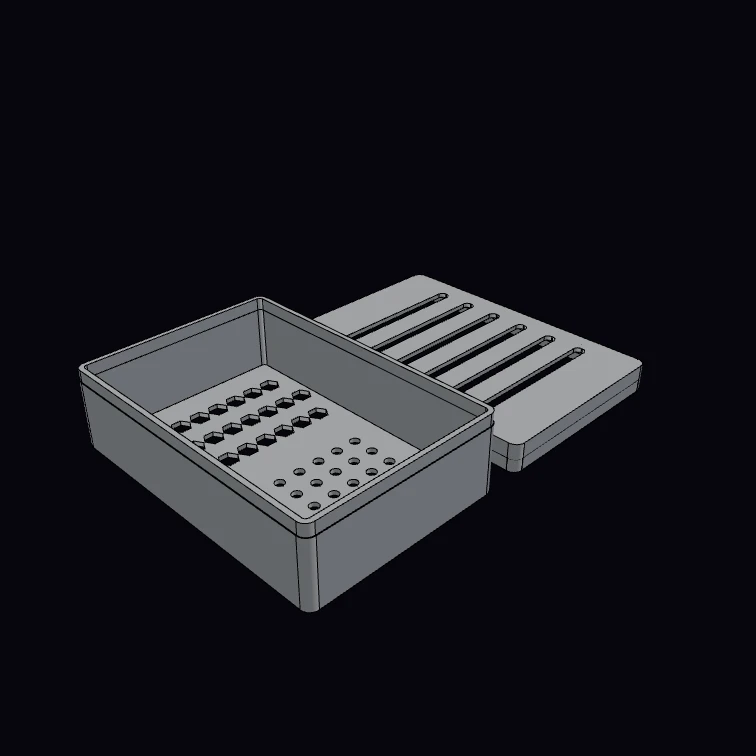
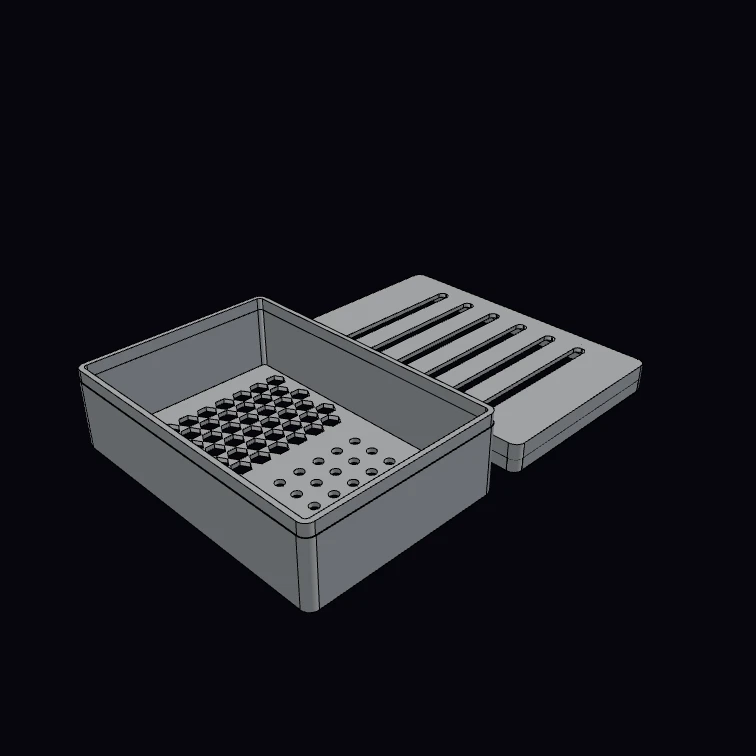
fix(playground): fix divided-bin scoop and louvre honeycomb pitch (Greptile)
divided-gridfinity-bin: the finger scoop cylinder was rotated about the world
origin (rotate with no 'at'), flinging it to z~=41 so the scoop was absent. Build
it directly along X (axis) at the pocket back-floor corner instead.

vented-louvre-case: the honeycomb column pitch double-counted the across-flats
factor (~2x too large), giving a sparse vent. Use 1.5*hexCircumR + hexGap for a
tight flat-top grid.

Both display-only; getSolids unchanged (bin 1 solid, case [1,1]); type guard
32/32, eval+mesh 252/252. Addresses the Greptile P1+P2 on #1457.

Changed region(s): [[0.213, 0.4868, 0.4563, 0.6389]]

diff --git a/apps/playground/src/lib/examples/mechanical.ts b/apps/playground/src/lib/examples/mechanical.ts
@@ -1812,7 +1812,6 @@ export default gridfinityBaseplate();`,
   edgeFinder,
   fillet,
   fuse,
-  rotate,
   unwrap,
   validSolid,
 } from 'brepjs/quick';
@@ -1966,11 +1965,13 @@ function dividedGridfinityBin({
   for (let gi = 0; gi < divx; gi++) {
     const [cx, cy] = pocketCenter(gi, divy - 1); // back row only
     const yBack = cy + cellPy / 2; // back wall plane of this pocket
-    const scoop = rotate(
-      cylinder(scoopR, cellPx, { at: [cx - cellPx / 2, yBack, FLOOR + scoopR] }),
-      90,
-      { axis: [0, 1, 0] },
-    );
+    // Cylinder runs directly along X (axis) at the pocket back-floor corner. A
+    // rotate() with no 'at' pivots about the world origin and flings the scoop
+    // clear out of the pocket.
+    const scoop = cylinder(scoopR, cellPx, {
+      at: [cx - cellPx / 2, yBack, FLOOR + scoopR],
+      axis: [1, 0, 0],
+    });
     cutters.push(scoop);
   }
 
@@ -2277,7 +2278,7 @@ function ventedCase({
   // Honeycomb occupies the back half of the floor (−X side). Hex prisms on a
   // staggered (brick-offset) grid, flat-topped, sized across flats.
   const hexCircumR = hexAcross / 2 / Math.cos(Math.PI / 6); // flats → vertex radius
-  const colPitch = (hexAcross + hexGap) * 0.75 * (2 / Math.cos(Math.PI / 6)); // hex column step
+  const colPitch = 1.5 * hexCircumR + hexGap; // flat-top hex column step: 3/4 width + wall
   const rowPitch = hexAcross + hexGap; // hex row step (flat-to-flat + wall)
   const hexZoneMaxX = -3; // honeycomb stays on the back half
   for (let ci = -6; ci <= 6; ci++) {
